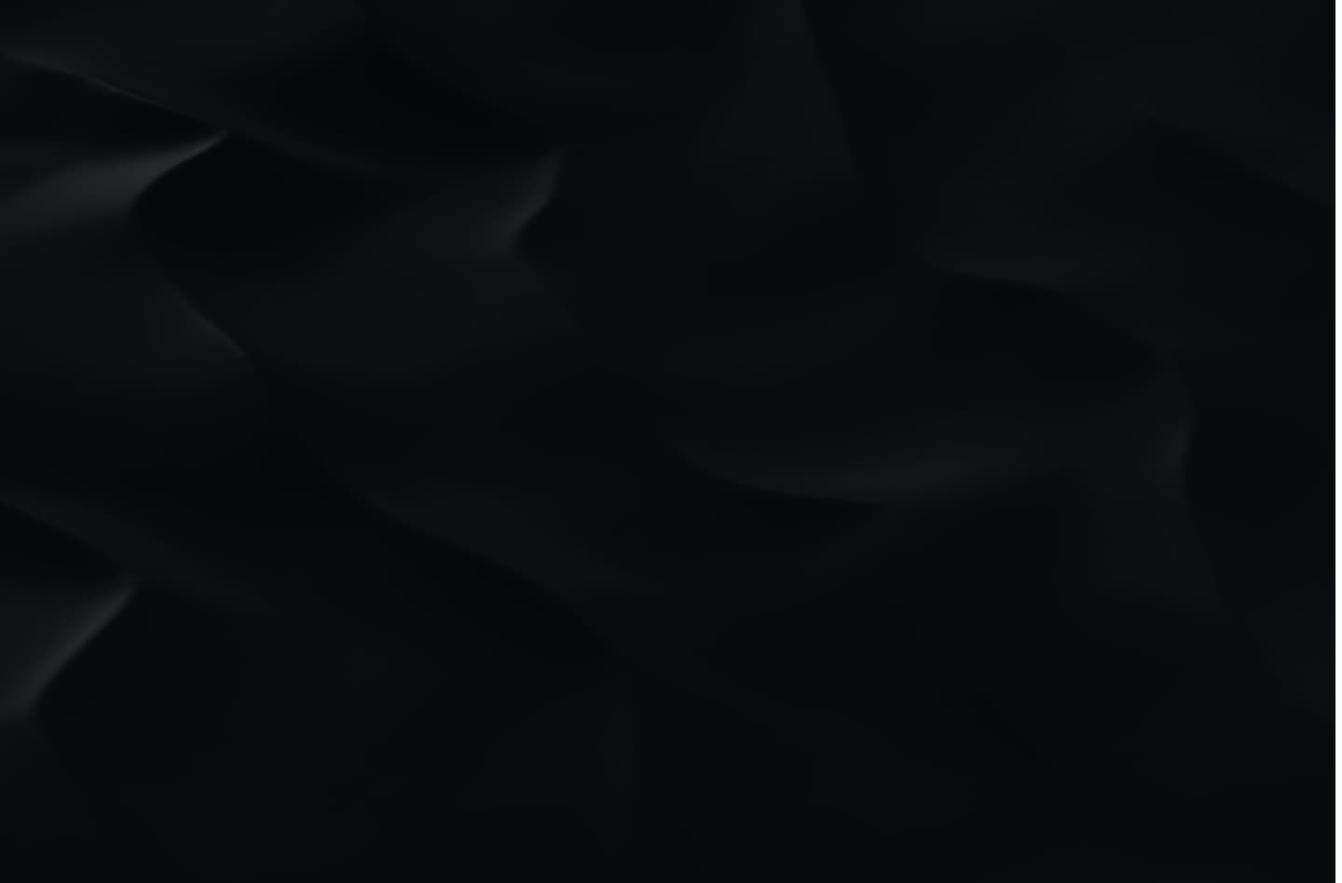
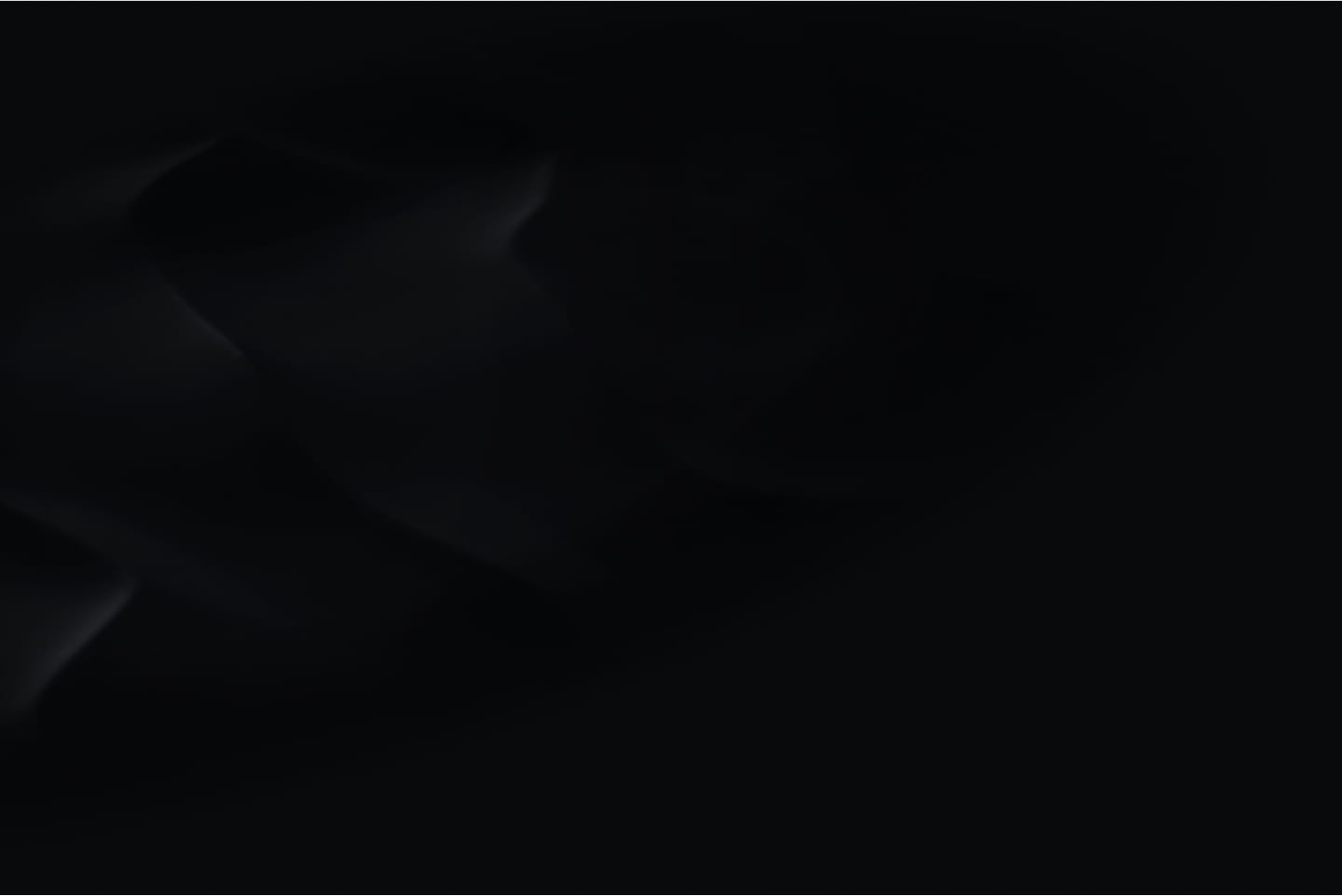
Made a layout on full screen width

Changed region(s): [[0.9688, 0.0, 1.0, 1.0], [0.125, 0.153, 0.1562, 0.1835], [0.0938, 0.1835, 0.125, 0.2141]]

diff --git a/css/style.css b/css/style.css
@@ -1,2 +1,2 @@
-/*! normalize.css v8.0.1 | MIT License | github.com/necolas/normalize.css */html{line-height:1.15;-webkit-text-size-adjust:100%}body{margin:0}main{display:block}h1{font-size:2em;margin:0.67em 0}hr{box-sizing:content-box;height:0;overflow:visible}pre{font-family:monospace, monospace;font-size:1em}a{background-color:transparent}abbr[title]{border-bottom:none;text-decoration:underline;text-decoration:underline dotted}b,strong{font-weight:bolder}code,kbd,samp{font-family:monospace, monospace;font-size:1em}small{font-size:80%}sub,sup{font-size:75%;line-height:0;position:relative;vertical-align:baseline}sub{bottom:-0.25em}sup{top:-0.5em}img{border-style:none}button,input,optgroup,select,textarea{font-family:inherit;font-size:100%;line-height:1.15;margin:0}button,input{overflow:visible}button,select{text-transform:none}button,[type='button'],[type='reset'],[type='submit']{-webkit-appearance:button}button::-moz-focus-inner,[type='button']::-moz-focus-inner,[type='reset']::-moz-focus-inner,[type='submit']::-moz-focus-inner{border-style:none;padding:0}button:-moz-focusring,[type='button']:-moz-focusring,[type='reset']:-moz-focusring,[type='submit']:-moz-focusring{outline:1px dotted ButtonText}fieldset{padding:0.35em 0.75em 0.625em}legend{box-sizing:border-box;color:inherit;display:table;max-width:100%;padding:0;white-space:normal}progress{vertical-align:baseline}textarea{overflow:auto}[type='checkbox'],[type='radio']{box-sizing:border-box;padding:0}[type='number']::-webkit-inner-spin-button,[type='number']::-webkit-outer-spin-button{height:auto}[type='search']{-webkit-appearance:textfield;outline-offset:-2px}[type='search']::-webkit-search-decoration{-webkit-appearance:none}::-webkit-file-upload-button{-webkit-appearance:button;font:inherit}details{display:block}summary{display:list-item}template{display:none}[hidden]{display:none}.slick-slider{position:relative;display:block;box-sizing:border-box;-webkit-touch-callout:none;user-select:none;touch-action:pan-y;-webkit-tap-highlight-color:transparent}.slick-list{position:relative;overflow:hidden;display:block;margin:0;padding:0}.slick-list:focus{outline:none}.slick-list.dragging{cursor:pointer;cursor:hand}.slick-slider .slick-track,.slick-slider .slick-list{transform:translate3d(0, 0, 0)}.slick-track{position:relative;left:0;top:0;display:block;margin-left:auto;margin-right:auto}.slick-track:before,.slick-track:after{content:'';display:table}.slick-track:after{clear:both}.slick-loading .slick-track{visibility:hidden}.slick-slide{float:left;outline:none;height:100%;min-height:1px;display:none}[dir='rtl'] .slick-slide{float:right}.slick-slide img{display:block}.slick-slide.slick-loading img{display:none}.slick-slide.dragging img{pointer-events:none}.slick-initialized .slick-slide{display:block}.slick-loading .slick-slide{visibility:hidden}.slick-vertical .slick-slide{display:block;height:auto;border:1px solid transparent}.slick-arrow.slick-hidden{display:none}.slick-arrow{position:absolute;top:50%;transform:translateY(-50%);z-index:5;font-size:0;border:none;background-color:transparent}.slick-prev{left:0;outline:none;z-index:-1}.slick-next{right:50px;background:url(../images/about/switch.svg) center no-repeat;width:20px;height:40px}@media (max-width: 1250px){.slick-next{background:none}}.slick-dots{display:flex;position:relative}@media (max-width: 1250px){.slick-dots{justify-content:center}}.slick-dots li{list-style:none;margin:0 -25px;z-index:1}@media (max-width: 1250px){.slick-dots li{margin-left:30px;margin-right:60px}}@media (max-width: 600px){.slick-dots li{margin-left:10px;margin-right:40px}}.slick-dots button{display:block;font-size:0;border:none;width:15px;height:15px;border-radius:50%;background-color:transparent;border:1px solid #fff;outline:none;margin-left:130px;margin-top:-60px}@media (max-width: 1250px){.slick-dots button{margin-left:0;margin-right:0}}.slick-active button{background-color:#fff}*,*::before,*::after{box-sizing:border-box}.container{max-width:1240px;padding:0 20px;margin:0 auto}body{font-family:'Open Sans', sans-serif;font-size:18px;font-weight:400;line-height:1.22;color:#fff}.main{max-width:1440px;margin:0 auto;background-color:#1a1917;background:url(../images/main/bg.jpg) center/cover no-repeat}.main__header{display:flex;justify-content:space-between;padding-top:20px}@media (max-width: 900px){.main__header{justify-content:flex-start}}.header__logo{text-decoration:none}.header__logo-img{display:block}.nav__list{display:flex;list-style:none;margin:0;padding:20px 0 0}@media (max-width: 900px){.nav__list{display:none}}.nav__list-item{margin-right:50px;position:relative}.nav__list-item::after{content:'';position:absolute;width:0;height:2px;bottom:-3px;left:0;background-color:#fff;transition:0.6s}@media (max-width: 1024px){.nav__list-item{margin-right:35px}}.nav__list-item:hover::after{width:100%}.nav__list-item:last-child{margin-right:0}.nav__list-link{font-size:12px;font-weight:700;line-height:1.33;letter-spacing:0.1em;text-transform:uppercase;text-decoration:none;color:#fff}.header__platforms{padding-top:20px}.platforms__link{text-decoration:none;margin-left:15px;display:inline-block}.platforms__link:first-child{margin-left:0}@media (max-width: 900px){.platforms__link:first-child{margin-left:20px}}.platforms__img{display:block}.main__title{font-family:'Bebas Neue', sans-serif;font-size:80px;font-weight:400;line-height:1;letter-spacing:3px;text-align:center;text-transform:uppercase;color:#fff;margin:235px 0 0}@media (max-width: 900px){.main__title{font-size:72px;margin-top:200px}}@media (max-width: 600px){.main__title{font-size:50px;margin-top:180px}}@media (max-width: 450px){.main__title{font-size:32px;margin-top:160px}}.main__subtitle{font-family:'Bebas Neue', sans-serif;font-size:24px;font-weight:400;line-height:1;letter-spacing:2px;text-align:center;color:#fff;display:block}@media (max-width: 900px){.main__subtitle{font-size:20px}}@media (max-width: 600px){.main__subtitle{font-size:16px}}@media (max-width: 450px){.main__subtitle{line-height:18px;max-width:250px;margin:0 auto}}.btn{font-size:16px;font-weight:700;text-align:center;text-decoration:none;margin:0 auto;color:#1a1917;width:260px;height:60px;line-height:60px;display:block;cursor:pointer;border:none;border-radius:4px;background:linear-gradient(183.46deg, #ffb548 11.27%, #f3af34 90.4%)}.btn:hover{background:#faac1c}.main__btn{margin:35px auto 0;position:relative}.main__btn span{margin-left:20px}.main__btn::after{content:'';height:24px;width:1px;top:50%;right:31%;transform:translateY(-50%);border-radius:5px;background-color:rgba(26,25,23,0.5);position:absolute}@media (max-width: 900px){.main__btn{margin-top:30px}}@media (max-width: 600px){.main__btn{margin-top:25px}}@media (max-width: 450px){.main__btn{margin-top:20px}}.main__footer{text-align:center;padding:360px 0 68px}.main__footer-link{font-size:12px;font-weight:700;text-transform:uppercase;text-decoration:none;color:#fff;position:relative}.main__footer-link::after{content:'';width:23px;height:11px;top:25px;left:50%;transform:translateX(-50%);background:url(../images/main/scroll-down.svg) no-repeat center;position:absolute}.about{max-width:1440px;margin:0 auto;background-color:#1a1917;background:url(../images/about/bg.jpg) center/cover no-repeat}.about__wrapper{display:flex;justify-content:space-between;padding-top:200px;padding-bottom:202px}@media (max-width: 1250px){.about__wrapper{flex-direction:column;align-items:center;justify-content:center;padding-bottom:200px}}@media (max-width: 1024px){.about__wrapper{padding-top:100px;padding-bottom:100px}}@media (max-width: 600px){.about__wrapper{padding-top:50px;padding-bottom:50px}}.about__content{padding-top:56px;width:50%}@media (max-width: 1250px){.about__content{width:100%;text-align:center;padding-top:0}}.about__suptitle{font-family:'Bebas Neue', sans-serif;font-size:24px;font-weight:400;line-height:1;letter-spacing:2px;text-transform:uppercase;color:#fff;display:block;padding-bottom:10px}@media (max-width: 900px){.about__suptitle{font-size:20px}}@media (max-width: 600px){.about__suptitle{font-size:16px;padding-bottom:0}}@media (max-width: 450px){.about__suptitle{line-height:18px;max-width:250px;margin:0 auto}}.about__title{font-family:'Bebas Neue', sans-serif;font-size:80px;font-weight:400;line-height:1;letter-spacing:3px;text-transform:uppercase;color:#fff;margin:0 0 70px}@media (max-width: 1024px){.about__title{margin-bottom:20px}}@media (max-width: 900px){.about__title{font-size:72px;max-width:500px;margin:0 auto}}@media (max-width: 600px){.about__title{font-size:50px;max-width:400px}}@media (max-width: 450px){.about__title{font-size:32px;max-width:250px}}.about__text{font-size:18px;font-weight:400;line-height:1.22;text-align:justify;color:#fff;max-width:365px;margin-left:auto;margin-right:48px}@media (max-width: 1250px){.about__text{margin:0 auto;max-width:800px;margin-bottom:50px;padding:15px}}@media (max-width: 900px){.about__text{font-size:18px;margin-top:20px}}@media (max-width: 600px){.about__text{font-size:14px;margin:0}}.about__text--first{margin-bottom:30px}@media (max-width: 600px){.about__text--first{margin-bottom:0}}.about__slider{width:50%;position:relative}@media (max-width: 1250px){.about__slider{width:100%}}.about__img{display:block;border-radius:6px}@media (max-width: 1250px){.about__img{margin:0 auto}}@media (max-width: 600px){.about__img{max-width:100%;height:540px}}@media (max-width: 450px){.about__img{height:420px}}@media (max-width: 400px){.about__img{height:340px}}.features{max-width:1440px;margin:0 auto;background-color:#1a1917;background:url(../images/features/bg.jpg) center 100%/cover no-repeat}.features__wrapper{display:flex;flex-direction:column;align-items:center;padding-top:170px;margin-left:345px}@media (max-width: 1000px){.features__wrapper{margin-left:25%;padding-top:150px}}@media (max-width: 900px){.features__wrapper{margin-left:15%;padding-top:100px}}@media (max-width: 700px){.features__wrapper{margin-left:0;padding-top:50px}}.features__suptitle{font-family:'Bebas Neue', sans-serif;font-size:24px;font-weight:400;line-height:1;letter-spacing:2px;text-transform:uppercase;color:#fff;display:block}@media (max-width: 900px){.features__suptitle{font-size:20px}}@media (max-width: 600px){.features__suptitle{font-size:16px;margin-left:120px;text-align:center}}.features__title{font-family:'Bebas Neue', sans-serif;font-size:80px;font-weight:400;line-height:1;letter-spacing:3px;text-transform:uppercase;color:#fff;margin:0;margin-top:10px;margin-left:70px}@media (max-width: 900px){.features__title{font-size:72px}}@media (max-width: 600px){.features__title{font-size:50px;margin-left:0;margin-left:120px;text-align:center}}@media (max-width: 450px){.features__title{font-size:32px}}.features__list{list-style:none;padding-top:50px;margin-left:215px;padding-bottom:270px}@media (max-width: 1000px){.features__list{padding-bottom:250px}}@media (max-width: 900px){.features__list{padding-bottom:200px}}@media (max-width: 700px){.features__list{padding-bottom:150px}}@media (max-width: 600px){.features__list{padding-top:25px;margin-left:150px}}@media (max-width: 450px){.features__list{margin-left:90px;text-align:center}}.features__item{font-family:'Bebas Neue', sans-serif;font-size:36px;font-weight:400;line-height:1;letter-spacing:2px;text-transform:uppercase;color:#ffb548;margin-bottom:40px;position:relative}.features__item::before{content:'';width:14px;height:14px;top:50%;left:-45px;transform:translateY(-70%);border:1px solid #fff;border-radius:50%;position:absolute}@media (max-width: 600px){.features__item::before{border:none}}@media (max-width: 900px){.features__item{font-size:26px}}@media (max-width: 600px){.features__item{font-size:20px;max-width:150px;text-align:center;line-height:1.11;margin-bottom:30px}}.system{max-width:1440px;margin:0 auto;background-color:#1a1917;background:url(../images/system/bg.jpg) center 100%/cover no-repeat;padding-bottom:190px}@media (max-width: 900px){.system{font-size:20px;padding-bottom:150px}}@media (max-width: 600px){.system{font-size:16px;padding-bottom:100px}}.system__suptitle{font-family:'Bebas Neue', sans-serif;font-size:24px;font-weight:400;line-height:1;letter-spacing:2px;text-align:center;text-transform:uppercase;color:#fff;display:block;padding-top:144px}@media (max-width: 900px){.system__suptitle{font-size:20px;padding-top:120px}}@media (max-width: 600px){.system__suptitle{font-size:16px;padding-top:75px}}.system__title{font-family:'Bebas Neue', sans-serif;font-size:80px;font-weight:400;line-height:1;letter-spacing:3px;text-align:center;text-transform:uppercase;color:#fff;margin:10px 0 130px}@media (max-width: 900px){.system__title{font-size:72px;margin-bottom:75px}}@media (max-width: 600px){.system__title{font-size:50px;margin-bottom:50px}}@media (max-width: 450px){.system__title{font-size:32px;margin-bottom:20px}}.system__requirements{display:flex;width:49%;flex-wrap:wrap;border:1px solid #979797;padding-right:0}@media (max-width: 1250px){.system__requirements{width:100%;flex-direction:column}}.requirements__item{width:293px;height:125px;padding-top:15px;padding-left:18px;border-bottom:1px solid #979797}.requirements__item:first-child,.requirements__item:nth-child(3){border-right:1px solid #979797}@media (max-width: 1250px){.requirements__item:first-child,.requirements__item:nth-child(3){border-right:none}}@media (max-width: 1250px){.requirements__item{width:100%;text-align:center;padding:30px 15px 20px;height:auto}}.requirements__item--bottom{width:586px;border-bottom:none}@media (max-width: 1250px){.requirements__item--bottom{width:100%;text-align:center;padding:30px 15px 20px;height:auto}}.requirements__title{font-family:'Bebas Neue', sans-serif;font-size:24px;font-weight:400;line-height:1;letter-spacing:2px;text-transform:uppercase;color:#ffb548;display:block}.requirements__text{font-size:18px;font-weight:400;line-height:1.22;color:#fff;margin:10px 0}.quotes{max-width:1440px;margin:0 auto;background-color:#1a1917;background:url(../images/quotes/bg.jpg) center 100%/cover no-repeat;padding-bottom:140px}@media (max-width: 900px){.quotes{padding-bottom:100px}}@media (max-width: 600px){.quotes{padding-bottom:80px}}@media (max-width: 600px){.quotes{padding-bottom:50px}}.quotes__wrapper{display:flex;justify-content:space-between}@media (max-width: 1100px){.quotes__wrapper{flex-direction:column;justify-content:center;align-items:center}}.quotes__suptitle{font-family:'Bebas Neue', sans-serif;font-size:24px;font-weight:400;line-height:1;letter-spacing:2px;text-transform:uppercase;color:#fff;display:block;padding-top:303px;padding-bottom:10px}@media (max-width: 1100px){.quotes__suptitle{text-align:center;padding-top:150px}}@media (max-width: 900px){.quotes__suptitle{font-size:20px;padding-top:100px}}@media (max-width: 600px){.quotes__suptitle{font-size:16px;padding-top:75px}}.quotes__title{font-family:'Bebas Neue', sans-serif;font-size:80px;font-weight:400;line-height:1;letter-spacing:3px;text-transform:uppercase;color:#fff;margin:0}@media (max-width: 1100px){.quotes__title{text-align:center}}@media (max-width: 900px){.quotes__title{font-size:72px}}@media (max-width: 600px){.quotes__title{font-size:50px}}@media (max-width: 450px){.quotes__title{font-size:32px}}.quotes__text{font-size:18px;font-weight:400;line-height:1.22;text-align:justify;color:#fff;max-width:435px;margin:45px 0 65px}@media (max-width: 1100px){.quotes__text{max-width:750px;margin:20px 0 50px;padding:0 15px}}@media (max-width: 600px){.quotes__text{font-size:14px}}.quotes__btn{display:inline-block}@media (max-width: 1100px){.quotes__btn{display:block;margin:0 auto}}.quotes__press{padding-top:160px}@media (max-width: 1100px){.quotes__press{padding-top:100px}}@media (max-width: 900px){.quotes__press{padding-top:75px}}@media (max-width: 600px){.quotes__press{padding-top:50px}}.quotes__press-item{max-width:455px;border-radius:10px;background-color:rgba(255,255,255,0.08);padding:10px 15px 15px;margin-bottom:30px;position:relative}.quotes__press-item::after{content:'';width:18px;height:15px;top:30px;right:20px;position:absolute;background:url(../images/quotes/twitter.svg) no-repeat center;cursor:pointer}@media (max-width: 700px){.quotes__press-item::after{top:20px;right:20px}}@media (max-width: 400px){.quotes__press-item::after{top:15px;right:15px}}.quotes__press-item:nth-child(1),.quotes__press-item:nth-child(3){margin-left:150px}@media (max-width: 700px){.quotes__press-item:nth-child(1),.quotes__press-item:nth-child(3){margin-left:0}}.press-img{position:relative;width:62px;height:62px;border-radius:50%;z-index:1}.press-img::after{content:'';width:65px;height:65px;border-radius:50%;top:2px;right:-8px;background-color:#ffb548;position:absolute;z-index:-1}.press-img img{width:62px;height:62px;border-radius:50%;display:inline-block}.press__link{text-decoration:none}.press__name{font-family:'Bebas Neue', sans-serif;font-size:24px;font-weight:400;line-height:1;letter-spacing:2px;color:#ffb548;margin:-50px 0 0 100px}@media (max-width: 400px){.press__name{font-size:21px}}@media (max-width: 350px){.press__name{margin:-50px 0 0 80px}}.press__position{font-size:18px;font-weight:400;line-height:1.22;text-align:justify;color:rgba(255,255,255,0.5);margin:0 0 0 100px}@media (max-width: 400px){.press__position{font-size:14px}}@media (max-width: 350px){.press__position{margin:0 0 0 80px}}.press__text{font-size:18px;font-weight:400;line-height:1.4;color:#fff;margin:35px 0 10px}@media (max-width: 600px){.press__text{font-size:16px}}@media (max-width: 400px){.press__text{font-size:14px}}.press__data{font-size:14px;font-weight:400;line-height:1.35;color:rgba(255,255,255,0.5)}.subscribe{max-width:1440px;margin:0 auto;background-color:#1a1917;background:url(../images/subscribe/bg.jpg) center 100%/cover no-repeat}.subscribe__wrapper{display:flex;flex-direction:column;align-items:flex-end}@media (max-width: 650px){.subscribe__wrapper{align-items:center}}.subscribe__suptitle{font-family:'Bebas Neue', sans-serif;font-size:24px;font-weight:400;line-height:1;letter-spacing:2px;text-transform:uppercase;color:#fff;display:block;padding-top:219px;margin-right:425px}@media (max-width: 900px){.subscribe__suptitle{font-size:20px;margin-right:395px;padding-top:180px}}@media (max-width: 650px){.subscribe__suptitle{margin-right:0;margin:0 auto;padding-top:100px}}@media (max-width: 600px){.subscribe__suptitle{font-size:16px}}.subscribe__title{font-family:'Bebas Neue', sans-serif;font-size:80px;font-weight:400;line-height:1;letter-spacing:3px;text-transform:uppercase;color:#fff;margin:10px 0 49px}@media (max-width: 900px){.subscribe__title{font-size:72px;margin-bottom:20px}}@media (max-width: 650px){.subscribe__title{margin:0 auto;text-align:center}}@media (max-width: 600px){.subscribe__title{font-size:50px}}@media (max-width: 450px){.subscribe__title{font-size:32px}}.subscribe__text{font-size:18px;font-weight:400;line-height:1.22;text-align:justify;color:#fff;max-width:645px;margin:0 0 60px}@media (max-width: 900px){.subscribe__text{font-size:18px;max-width:590px;margin-bottom:40px}}@media (max-width: 650px){.subscribe__text{margin:0 auto 20px}}@media (max-width: 600px){.subscribe__text{font-size:14px}}.subscribe__form{display:flex;align-items:center;margin-bottom:215px}@media (max-width: 900px){.subscribe__form{flex-direction:column;justify-content:center;margin-bottom:180px}}@media (max-width: 600px){.subscribe__form{margin-bottom:150px}}.subscribe__input{width:367px;height:60px;padding:10px 15px;border-radius:5px;border:none;color:#fff;background:rgba(255,255,255,0.08);margin-right:20px}@media (max-width: 900px){.subscribe__input{width:590px;margin-right:0;text-align:center}}@media (max-width: 650px){.subscribe__input{width:500px}}@media (max-width: 550px){.subscribe__input{width:400px}}@media (max-width: 450px){.subscribe__input{width:300px}}@media (max-width: 350px){.subscribe__input{width:250px}}.subscribe__btn{display:inline-block}@media (max-width: 900px){.subscribe__btn{width:590px;margin-top:25px}}@media (max-width: 650px){.subscribe__btn{width:500px}}@media (max-width: 550px){.subscribe__btn{width:400px}}@media (max-width: 450px){.subscribe__btn{width:300px}}@media (max-width: 350px){.subscribe__btn{width:250px}}.footer{display:flex;justify-content:space-between;padding-bottom:25px;border-bottom:1px solid rgba(255,255,255,0.5)}@media (max-width: 1200px){.footer{flex-direction:column;align-items:center}}.footer__logo{margin-top:-36px}.footer__social{padding-top:20px}.footer__link{text-decoration:none}.footer__link:first-child{margin-left:-50px}@media (max-width: 1200px){.footer__link:first-child{margin-left:0}}.footer__link:not(:first-child){margin-left:50px}.copyright{display:flex;justify-content:space-between;padding-top:10px;padding-bottom:40px}@media (max-width: 900px){.copyright{flex-direction:column;justify-content:center;align-items:center}}@media (max-width: 500px){.copyright{padding-bottom:20px}}.copyright__text{font-size:14px;font-weight:400;line-height:1.22;color:rgba(255,255,255,0.5)}@media (max-width: 500px){.copyright__text{margin-bottom:20px}}.copyright__links{padding-top:10px}@media (max-width: 900px){.copyright__links{padding-top:0}}@media (max-width: 500px){.copyright__links{display:flex;flex-direction:column;align-items:center}}.copyright__link{font-size:12px;font-weight:700;line-height:1;letter-spacing:0.1em;text-transform:uppercase;text-decoration:none;color:#fff}@media (max-width: 500px){.copyright__link{margin-bottom:15px}}.copyright__link:not(:first-child){margin-left:20px;position:relative}@media (max-width: 500px){.copyright__link:not(:first-child){margin-left:0}}.copyright__link:not(:first-child)::before{content:'';width:1.5px;height:12px;top:50%;left:-11px;transform:translateY(-50%);background-color:#fff;pointer-events:none;position:absolute}@media (max-width: 500px){.copyright__link:not(:first-child)::before{width:0;height:0}}
+/*! normalize.css v8.0.1 | MIT License | github.com/necolas/normalize.css */html{line-height:1.15;-webkit-text-size-adjust:100%}body{margin:0}main{display:block}h1{font-size:2em;margin:0.67em 0}hr{box-sizing:content-box;height:0;overflow:visible}pre{font-family:monospace, monospace;font-size:1em}a{background-color:transparent}abbr[title]{border-bottom:none;text-decoration:underline;text-decoration:underline dotted}b,strong{font-weight:bolder}code,kbd,samp{font-family:monospace, monospace;font-size:1em}small{font-size:80%}sub,sup{font-size:75%;line-height:0;position:relative;vertical-align:baseline}sub{bottom:-0.25em}sup{top:-0.5em}img{border-style:none}button,input,optgroup,select,textarea{font-family:inherit;font-size:100%;line-height:1.15;margin:0}button,input{overflow:visible}button,select{text-transform:none}button,[type='button'],[type='reset'],[type='submit']{-webkit-appearance:button}button::-moz-focus-inner,[type='button']::-moz-focus-inner,[type='reset']::-moz-focus-inner,[type='submit']::-moz-focus-inner{border-style:none;padding:0}button:-moz-focusring,[type='button']:-moz-focusring,[type='reset']:-moz-focusring,[type='submit']:-moz-focusring{outline:1px dotted ButtonText}fieldset{padding:0.35em 0.75em 0.625em}legend{box-sizing:border-box;color:inherit;display:table;max-width:100%;padding:0;white-space:normal}progress{vertical-align:baseline}textarea{overflow:auto}[type='checkbox'],[type='radio']{box-sizing:border-box;padding:0}[type='number']::-webkit-inner-spin-button,[type='number']::-webkit-outer-spin-button{height:auto}[type='search']{-webkit-appearance:textfield;outline-offset:-2px}[type='search']::-webkit-search-decoration{-webkit-appearance:none}::-webkit-file-upload-button{-webkit-appearance:button;font:inherit}details{display:block}summary{display:list-item}template{display:none}[hidden]{display:none}.slick-slider{position:relative;display:block;box-sizing:border-box;-webkit-touch-callout:none;user-select:none;touch-action:pan-y;-webkit-tap-highlight-color:transparent}.slick-list{position:relative;overflow:hidden;display:block;margin:0;padding:0}.slick-list:focus{outline:none}.slick-list.dragging{cursor:pointer;cursor:hand}.slick-slider .slick-track,.slick-slider .slick-list{transform:translate3d(0, 0, 0)}.slick-track{position:relative;left:0;top:0;display:block;margin-left:auto;margin-right:auto}.slick-track:before,.slick-track:after{content:'';display:table}.slick-track:after{clear:both}.slick-loading .slick-track{visibility:hidden}.slick-slide{float:left;outline:none;height:100%;min-height:1px;display:none}[dir='rtl'] .slick-slide{float:right}.slick-slide img{display:block}.slick-slide.slick-loading img{display:none}.slick-slide.dragging img{pointer-events:none}.slick-initialized .slick-slide{display:block}.slick-loading .slick-slide{visibility:hidden}.slick-vertical .slick-slide{display:block;height:auto;border:1px solid transparent}.slick-arrow.slick-hidden{display:none}.slick-arrow{position:absolute;top:50%;transform:translateY(-50%);z-index:5;font-size:0;border:none;background-color:transparent}.slick-prev{left:0;outline:none;z-index:-1}.slick-next{right:50px;background:url(../images/about/switch.svg) center no-repeat;width:20px;height:40px}@media (max-width: 1250px){.slick-next{background:none}}.slick-dots{display:flex;position:relative}@media (max-width: 1250px){.slick-dots{justify-content:center}}.slick-dots li{list-style:none;margin:0 -25px;z-index:1}@media (max-width: 1250px){.slick-dots li{margin-left:30px;margin-right:60px}}@media (max-width: 600px){.slick-dots li{margin-left:10px;margin-right:40px}}.slick-dots button{display:block;font-size:0;border:none;width:15px;height:15px;border-radius:50%;background-color:transparent;border:1px solid #fff;outline:none;margin-left:130px;margin-top:-60px}@media (max-width: 1250px){.slick-dots button{margin-left:0;margin-right:0}}.slick-active button{background-color:#fff}*,*::before,*::after{box-sizing:border-box}.container{max-width:1240px;padding:0 20px;margin:0 auto}body{font-family:'Open Sans', sans-serif;font-size:18px;font-weight:400;line-height:1.22;color:#fff}.main{margin:0 auto;background:url(../images/main/bg.jpg) center/cover no-repeat;background-color:#1a1917}.main__header{display:flex;justify-content:space-between;padding-top:20px}@media (max-width: 900px){.main__header{justify-content:flex-start}}.header__logo{text-decoration:none}.header__logo-img{display:block}.nav__list{display:flex;list-style:none;margin:0;padding:20px 0 0}@media (max-width: 900px){.nav__list{display:none}}.nav__list-item{margin-right:50px;position:relative}.nav__list-item::after{content:'';position:absolute;width:0;height:2px;bottom:-3px;left:0;background-color:#fff;transition:0.6s}@media (max-width: 1024px){.nav__list-item{margin-right:35px}}.nav__list-item:hover::after{width:100%}.nav__list-item:last-child{margin-right:0}.nav__list-link{font-size:12px;font-weight:700;line-height:1.33;letter-spacing:0.1em;text-transform:uppercase;text-decoration:none;color:#fff}.header__platforms{padding-top:20px}.platforms__link{text-decoration:none;margin-left:15px;display:inline-block}.platforms__link:first-child{margin-left:0}@media (max-width: 900px){.platforms__link:first-child{margin-left:20px}}.platforms__img{display:block}.main__title{font-family:'Bebas Neue', sans-serif;font-size:80px;font-weight:400;line-height:1;letter-spacing:3px;text-align:center;text-transform:uppercase;color:#fff;margin:235px 0 0}@media (max-width: 900px){.main__title{font-size:72px;margin-top:200px}}@media (max-width: 600px){.main__title{font-size:50px;margin-top:180px}}@media (max-width: 450px){.main__title{font-size:32px;margin-top:160px}}.main__subtitle{font-family:'Bebas Neue', sans-serif;font-size:24px;font-weight:400;line-height:1;letter-spacing:2px;text-align:center;color:#fff;display:block}@media (max-width: 900px){.main__subtitle{font-size:20px}}@media (max-width: 600px){.main__subtitle{font-size:16px}}@media (max-width: 450px){.main__subtitle{line-height:18px;max-width:250px;margin:0 auto}}.btn{font-size:16px;font-weight:700;text-align:center;text-decoration:none;margin:0 auto;color:#1a1917;width:260px;height:60px;line-height:60px;display:block;cursor:pointer;border:none;border-radius:4px;background:linear-gradient(183.46deg, #ffb548 11.27%, #f3af34 90.4%)}.btn:hover{background:#faac1c}.main__btn{margin:35px auto 0;position:relative}.main__btn span{margin-left:20px}.main__btn::after{content:'';height:24px;width:1px;top:50%;right:31%;transform:translateY(-50%);border-radius:5px;background-color:rgba(26,25,23,0.5);position:absolute}@media (max-width: 900px){.main__btn{margin-top:30px}}@media (max-width: 600px){.main__btn{margin-top:25px}}@media (max-width: 450px){.main__btn{margin-top:20px}}.main__footer{text-align:center;padding:360px 0 68px}.main__footer-link{font-size:12px;font-weight:700;text-transform:uppercase;text-decoration:none;color:#fff;position:relative}.main__footer-link::after{content:'';width:23px;height:11px;top:25px;left:50%;transform:translateX(-50%);background:url(../images/main/scroll-down.svg) no-repeat center;position:absolute}.about{margin:0 auto;background:url(../images/about/bg.jpg) center/cover no-repeat;background-color:#1a1917}.about__wrapper{display:flex;justify-content:space-between;padding-top:200px;padding-bottom:202px}@media (max-width: 1250px){.about__wrapper{flex-direction:column;align-items:center;justify-content:center;padding-bottom:200px}}@media (max-width: 1024px){.about__wrapper{padding-top:100px;padding-bottom:100px}}@media (max-width: 600px){.about__wrapper{padding-top:50px;padding-bottom:50px}}.about__content{padding-top:56px;width:50%}@media (max-width: 1250px){.about__content{width:100%;text-align:center;padding-top:0}}.about__suptitle{font-family:'Bebas Neue', sans-serif;font-size:24px;font-weight:400;line-height:1;letter-spacing:2px;text-transform:uppercase;color:#fff;display:block;padding-bottom:10px}@media (max-width: 900px){.about__suptitle{font-size:20px}}@media (max-width: 600px){.about__suptitle{font-size:16px;padding-bottom:0}}@media (max-width: 450px){.about__suptitle{line-height:18px;max-width:250px;margin:0 auto}}.about__title{font-family:'Bebas Neue', sans-serif;font-size:80px;font-weight:400;line-height:1;letter-spacing:3px;text-transform:uppercase;color:#fff;margin:0 0 70px}@media (max-width: 1024px){.about__title{margin-bottom:20px}}@media (max-width: 900px){.about__title{font-size:72px;max-width:500px;margin:0 auto}}@media (max-width: 600px){.about__title{font-size:50px;max-width:400px}}@media (max-width: 450px){.about__title{font-size:32px;max-width:250px}}.about__text{font-size:18px;font-weight:400;line-height:1.22;text-align:justify;color:#fff;max-width:365px;margin-left:auto;margin-right:48px}@media (max-width: 1250px){.about__text{margin:0 auto;max-width:800px;margin-bottom:50px;padding:15px}}@media (max-width: 900px){.about__text{font-size:18px;margin-top:20px}}@media (max-width: 600px){.about__text{font-size:14px;margin:0}}.about__text--first{margin-bottom:30px}@media (max-width: 600px){.about__text--first{margin-bottom:0}}.about__slider{width:50%;position:relative}@media (max-width: 1250px){.about__slider{width:100%}}.about__img{display:block;border-radius:6px}@media (max-width: 1250px){.about__img{margin:0 auto}}@media (max-width: 600px){.about__img{max-width:100%;height:540px}}@media (max-width: 450px){.about__img{height:420px}}@media (max-width: 400px){.about__img{height:340px}}.features{margin:0 auto;background:url(../images/features/bg.jpg) center/cover no-repeat;background-color:#1a1917}.features__wrapper{display:flex;flex-direction:column;align-items:center;padding-top:170px;margin-left:345px}@media (max-width: 1000px){.features__wrapper{margin-left:25%;padding-top:150px}}@media (max-width: 900px){.features__wrapper{margin-left:15%;padding-top:100px}}@media (max-width: 700px){.features__wrapper{margin-left:0;padding-top:50px}}.features__suptitle{font-family:'Bebas Neue', sans-serif;font-size:24px;font-weight:400;line-height:1;letter-spacing:2px;text-transform:uppercase;color:#fff;display:block}@media (max-width: 900px){.features__suptitle{font-size:20px}}@media (max-width: 600px){.features__suptitle{font-size:16px;margin-left:120px;text-align:center}}.features__title{font-family:'Bebas Neue', sans-serif;font-size:80px;font-weight:400;line-height:1;letter-spacing:3px;text-transform:uppercase;color:#fff;margin:0;margin-top:10px;margin-left:70px}@media (max-width: 900px){.features__title{font-size:72px}}@media (max-width: 600px){.features__title{font-size:50px;margin-left:0;margin-left:120px;text-align:center}}@media (max-width: 450px){.features__title{font-size:32px}}.features__list{list-style:none;padding-top:50px;margin-left:215px;padding-bottom:270px}@media (max-width: 1000px){.features__list{padding-bottom:250px}}@media (max-width: 900px){.features__list{padding-bottom:200px}}@media (max-width: 700px){.features__list{padding-bottom:150px}}@media (max-width: 600px){.features__list{padding-top:25px;margin-left:150px}}@media (max-width: 450px){.features__list{margin-left:90px;text-align:center}}.features__item{font-family:'Bebas Neue', sans-serif;font-size:36px;font-weight:400;line-height:1;letter-spacing:2px;text-transform:uppercase;color:#ffb548;margin-bottom:40px;position:relative}.features__item::before{content:'';width:14px;height:14px;top:50%;left:-45px;transform:translateY(-70%);border:1px solid #fff;border-radius:50%;position:absolute}@media (max-width: 600px){.features__item::before{border:none}}@media (max-width: 900px){.features__item{font-size:26px}}@media (max-width: 600px){.features__item{font-size:20px;max-width:150px;text-align:center;line-height:1.11;margin-bottom:30px}}.system{margin:0 auto;background:url(../images/system/bg.jpg) center/cover no-repeat;background-color:#1a1917;padding-bottom:190px}@media (max-width: 900px){.system{font-size:20px;padding-bottom:150px}}@media (max-width: 600px){.system{font-size:16px;padding-bottom:100px}}.system__suptitle{font-family:'Bebas Neue', sans-serif;font-size:24px;font-weight:400;line-height:1;letter-spacing:2px;text-align:center;text-transform:uppercase;color:#fff;display:block;padding-top:144px}@media (max-width: 900px){.system__suptitle{font-size:20px;padding-top:120px}}@media (max-width: 600px){.system__suptitle{font-size:16px;padding-top:75px}}.system__title{font-family:'Bebas Neue', sans-serif;font-size:80px;font-weight:400;line-height:1;letter-spacing:3px;text-align:center;text-transform:uppercase;color:#fff;margin:10px 0 130px}@media (max-width: 900px){.system__title{font-size:72px;margin-bottom:75px}}@media (max-width: 600px){.system__title{font-size:50px;margin-bottom:50px}}@media (max-width: 450px){.system__title{font-size:32px;margin-bottom:20px}}.system__requirements{display:flex;width:49%;flex-wrap:wrap;border:1px solid #979797;padding-right:0}@media (max-width: 1250px){.system__requirements{width:100%;flex-direction:column}}.requirements__item{width:293px;height:125px;padding-top:15px;padding-left:18px;border-bottom:1px solid #979797}.requirements__item:first-child,.requirements__item:nth-child(3){border-right:1px solid #979797}@media (max-width: 1250px){.requirements__item:first-child,.requirements__item:nth-child(3){border-right:none}}@media (max-width: 1250px){.requirements__item{width:100%;text-align:center;padding:30px 15px 20px;height:auto}}.requirements__item--bottom{width:586px;border-bottom:none}@media (max-width: 1250px){.requirements__item--bottom{width:100%;text-align:center;padding:30px 15px 20px;height:auto}}.requirements__title{font-family:'Bebas Neue', sans-serif;font-size:24px;font-weight:400;line-height:1;letter-spacing:2px;text-transform:uppercase;color:#ffb548;display:block}.requirements__text{font-size:18px;font-weight:400;line-height:1.22;color:#fff;margin:10px 0}.quotes{margin:0 auto;background:url(../images/quotes/bg.jpg) center/cover no-repeat;background-color:#1a1917;padding-bottom:140px}@media (max-width: 900px){.quotes{padding-bottom:100px}}@media (max-width: 600px){.quotes{padding-bottom:80px}}@media (max-width: 600px){.quotes{padding-bottom:50px}}.quotes__wrapper{display:flex;justify-content:space-between}@media (max-width: 1100px){.quotes__wrapper{flex-direction:column;justify-content:center;align-items:center}}.quotes__suptitle{font-family:'Bebas Neue', sans-serif;font-size:24px;font-weight:400;line-height:1;letter-spacing:2px;text-transform:uppercase;color:#fff;display:block;padding-top:303px;padding-bottom:10px}@media (max-width: 1100px){.quotes__suptitle{text-align:center;padding-top:150px}}@media (max-width: 900px){.quotes__suptitle{font-size:20px;padding-top:100px}}@media (max-width: 600px){.quotes__suptitle{font-size:16px;padding-top:75px}}.quotes__title{font-family:'Bebas Neue', sans-serif;font-size:80px;font-weight:400;line-height:1;letter-spacing:3px;text-transform:uppercase;color:#fff;margin:0}@media (max-width: 1100px){.quotes__title{text-align:center}}@media (max-width: 900px){.quotes__title{font-size:72px}}@media (max-width: 600px){.quotes__title{font-size:50px}}@media (max-width: 450px){.quotes__title{font-size:32px}}.quotes__text{font-size:18px;font-weight:400;line-height:1.22;text-align:justify;color:#fff;max-width:435px;margin:45px 0 65px}@media (max-width: 1100px){.quotes__text{max-width:750px;margin:20px 0 50px;padding:0 15px}}@media (max-width: 600px){.quotes__text{font-size:14px}}.quotes__btn{display:inline-block}@media (max-width: 1100px){.quotes__btn{display:block;margin:0 auto}}.quotes__press{padding-top:160px}@media (max-width: 1100px){.quotes__press{padding-top:100px}}@media (max-width: 900px){.quotes__press{padding-top:75px}}@media (max-width: 600px){.quotes__press{padding-top:50px}}.quotes__press-item{max-width:455px;border-radius:10px;background-color:rgba(255,255,255,0.08);padding:10px 15px 15px;margin-bottom:30px;position:relative}.quotes__press-item::after{content:'';width:18px;height:15px;top:30px;right:20px;position:absolute;background:url(../images/quotes/twitter.svg) no-repeat center;cursor:pointer}@media (max-width: 700px){.quotes__press-item::after{top:20px;right:20px}}@media (max-width: 400px){.quotes__press-item::after{top:15px;right:15px}}.quotes__press-item:nth-child(1),.quotes__press-item:nth-child(3){margin-left:150px}@media (max-width: 700px){.quotes__press-item:nth-child(1),.quotes__press-item:nth-child(3){margin-left:0}}.press-img{position:relative;width:62px;height:62px;border-radius:50%;z-index:1}.press-img::after{content:'';width:65px;height:65px;border-radius:50%;top:2px;right:-8px;background-color:#ffb548;position:absolute;z-index:-1}.press-img img{width:62px;height:62px;border-radius:50%;display:inline-block}.press__link{text-decoration:none}.press__name{font-family:'Bebas Neue', sans-serif;font-size:24px;font-weight:400;line-height:1;letter-spacing:2px;color:#ffb548;margin:-50px 0 0 100px}@media (max-width: 400px){.press__name{font-size:21px}}@media (max-width: 350px){.press__name{margin:-50px 0 0 80px}}.press__position{font-size:18px;font-weight:400;line-height:1.22;text-align:justify;color:rgba(255,255,255,0.5);margin:0 0 0 100px}@media (max-width: 400px){.press__position{font-size:14px}}@media (max-width: 350px){.press__position{margin:0 0 0 80px}}.press__text{font-size:18px;font-weight:400;line-height:1.4;color:#fff;margin:35px 0 10px}@media (max-width: 600px){.press__text{font-size:16px}}@media (max-width: 400px){.press__text{font-size:14px}}.press__data{font-size:14px;font-weight:400;line-height:1.35;color:rgba(255,255,255,0.5)}.subscribe{margin:0 auto;background:url(../images/subscribe/bg.jpg) center/cover no-repeat;background-color:#1a1917}.subscribe__wrapper{display:flex;flex-direction:column;align-items:flex-end}@media (max-width: 650px){.subscribe__wrapper{align-items:center}}.subscribe__suptitle{font-family:'Bebas Neue', sans-serif;font-size:24px;font-weight:400;line-height:1;letter-spacing:2px;text-transform:uppercase;color:#fff;display:block;padding-top:219px;margin-right:425px}@media (max-width: 900px){.subscribe__suptitle{font-size:20px;margin-right:395px;padding-top:180px}}@media (max-width: 650px){.subscribe__suptitle{margin-right:0;margin:0 auto;padding-top:100px}}@media (max-width: 600px){.subscribe__suptitle{font-size:16px}}.subscribe__title{font-family:'Bebas Neue', sans-serif;font-size:80px;font-weight:400;line-height:1;letter-spacing:3px;text-transform:uppercase;color:#fff;margin:10px 0 49px}@media (max-width: 900px){.subscribe__title{font-size:72px;margin-bottom:20px}}@media (max-width: 650px){.subscribe__title{margin:0 auto;text-align:center}}@media (max-width: 600px){.subscribe__title{font-size:50px}}@media (max-width: 450px){.subscribe__title{font-size:32px}}.subscribe__text{font-size:18px;font-weight:400;line-height:1.22;text-align:justify;color:#fff;max-width:645px;margin:0 0 60px}@media (max-width: 900px){.subscribe__text{font-size:18px;max-width:590px;margin-bottom:40px}}@media (max-width: 650px){.subscribe__text{margin:0 auto 20px}}@media (max-width: 600px){.subscribe__text{font-size:14px}}.subscribe__form{display:flex;align-items:center;margin-bottom:215px}@media (max-width: 900px){.subscribe__form{flex-direction:column;justify-content:center;margin-bottom:180px}}@media (max-width: 600px){.subscribe__form{margin-bottom:150px}}.subscribe__input{width:367px;height:60px;padding:10px 15px;border-radius:5px;border:none;color:#fff;background:rgba(255,255,255,0.08);margin-right:20px}@media (max-width: 900px){.subscribe__input{width:590px;margin-right:0;text-align:center}}@media (max-width: 650px){.subscribe__input{width:500px}}@media (max-width: 550px){.subscribe__input{width:400px}}@media (max-width: 450px){.subscribe__input{width:300px}}@media (max-width: 350px){.subscribe__input{width:250px}}.subscribe__btn{display:inline-block}@media (max-width: 900px){.subscribe__btn{width:590px;margin-top:25px}}@media (max-width: 650px){.subscribe__btn{width:500px}}@media (max-width: 550px){.subscribe__btn{width:400px}}@media (max-width: 450px){.subscribe__btn{width:300px}}@media (max-width: 350px){.subscribe__btn{width:250px}}.footer{display:flex;justify-content:space-between;padding-bottom:25px;border-bottom:1px solid rgba(255,255,255,0.5)}@media (max-width: 1200px){.footer{flex-direction:column;align-items:center}}.footer__logo{margin-top:-36px}.footer__social{padding-top:20px}.footer__link{text-decoration:none}.footer__link:first-child{margin-left:-50px}@media (max-width: 1200px){.footer__link:first-child{margin-left:0}}.footer__link:not(:first-child){margin-left:50px}.copyright{display:flex;justify-content:space-between;padding-top:10px;padding-bottom:40px}@media (max-width: 900px){.copyright{flex-direction:column;justify-content:center;align-items:center}}@media (max-width: 500px){.copyright{padding-bottom:20px}}.copyright__text{font-size:14px;font-weight:400;line-height:1.22;color:rgba(255,255,255,0.5)}@media (max-width: 500px){.copyright__text{margin-bottom:20px}}.copyright__links{padding-top:10px}@media (max-width: 900px){.copyright__links{padding-top:0}}@media (max-width: 500px){.copyright__links{display:flex;flex-direction:column;align-items:center}}.copyright__link{font-size:12px;font-weight:700;line-height:1;letter-spacing:0.1em;text-transform:uppercase;text-decoration:none;color:#fff}@media (max-width: 500px){.copyright__link{margin-bottom:15px}}.copyright__link:not(:first-child){margin-left:20px;position:relative}@media (max-width: 500px){.copyright__link:not(:first-child){margin-left:0}}.copyright__link:not(:first-child)::before{content:'';width:1.5px;height:12px;top:50%;left:-11px;transform:translateY(-50%);background-color:#fff;pointer-events:none;position:absolute}@media (max-width: 500px){.copyright__link:not(:first-child)::before{width:0;height:0}}
 /*# sourceMappingURL=style.css.map */

diff --git a/scss/_quotes.scss b/scss/_quotes.scss
@@ -1,8 +1,8 @@
 .quotes {
-  max-width: 1440px;
+  // max-width: 1440px;
   margin: 0 auto;
+  background: url(../images/quotes/bg.jpg) center / cover no-repeat;
   background-color: $black;
-  background: url(../images/quotes/bg.jpg) center 100% / cover no-repeat;
   padding-bottom: 140px;
   @media (max-width: 900px) {
     padding-bottom: 100px;

diff --git a/scss/_system.scss b/scss/_system.scss
@@ -1,8 +1,8 @@
 .system {
-  max-width: 1440px;
+  // max-width: 1440px;
   margin: 0 auto;
+  background: url(../images/system/bg.jpg) center / cover no-repeat;
   background-color: $black;
-  background: url(../images/system/bg.jpg) center 100% / cover no-repeat;
   padding-bottom: 190px;
   @media (max-width: 900px) {
     font-size: 20px;

diff --git a/index.html b/index.html
@@ -215,7 +215,7 @@
       </div>
       <footer class="footer">
         <a class="footer__logo" href="#">
-          <img src="images/subscribe/logo.svg" alt="logo SOS">
+          <img src="images/subscribe/logo.png" alt="logo SOS">
         </a>
         <nav class="nav">
           <ul class="nav__list">

diff --git a/scss/_subscribe.scss b/scss/_subscribe.scss
@@ -1,8 +1,8 @@
 .subscribe {
-  max-width: 1440px;
+  // max-width: 1440px;
   margin: 0 auto;
+  background: url(../images/subscribe/bg.jpg) center / cover no-repeat;
   background-color: $black;
-  background: url(../images/subscribe/bg.jpg) center 100% / cover no-repeat;
 }
 
 .subscribe__wrapper {

diff --git a/scss/_features.scss b/scss/_features.scss
@@ -1,8 +1,8 @@
 .features {
-  max-width: 1440px;
+  // max-width: 1440px;
   margin: 0 auto;
+  background: url(../images/features/bg.jpg) center / cover no-repeat;
   background-color: $black;
-  background: url(../images/features/bg.jpg) center 100% / cover no-repeat;
 }
 
 .features__wrapper {

diff --git a/scss/_about.scss b/scss/_about.scss
@@ -1,8 +1,8 @@
 .about {
-  max-width: 1440px;
+  // max-width: 1440px;
   margin: 0 auto;
-  background-color: $black;
   background: url(../images/about/bg.jpg) center / cover no-repeat;
+  background-color: $black;
 }
 
 .about__wrapper {

diff --git a/scss/_main.scss b/scss/_main.scss
@@ -1,8 +1,8 @@
 .main {
-  max-width: 1440px;
+  // max-width: 1440px;
   margin: 0 auto;
-  background-color: $black;
   background: url(../images/main/bg.jpg) center / cover no-repeat;
+  background-color: $black;
 }
 
 .main__header {

diff --git a/scss/_general.scss b/scss/_general.scss
@@ -10,9 +10,6 @@
   margin: 0 auto;
 }
 
-// 
-// font-family: 'Open Sans', sans-serif;
-
 body {
   font-family: 'Open Sans', sans-serif;
   font-size: 18px;
